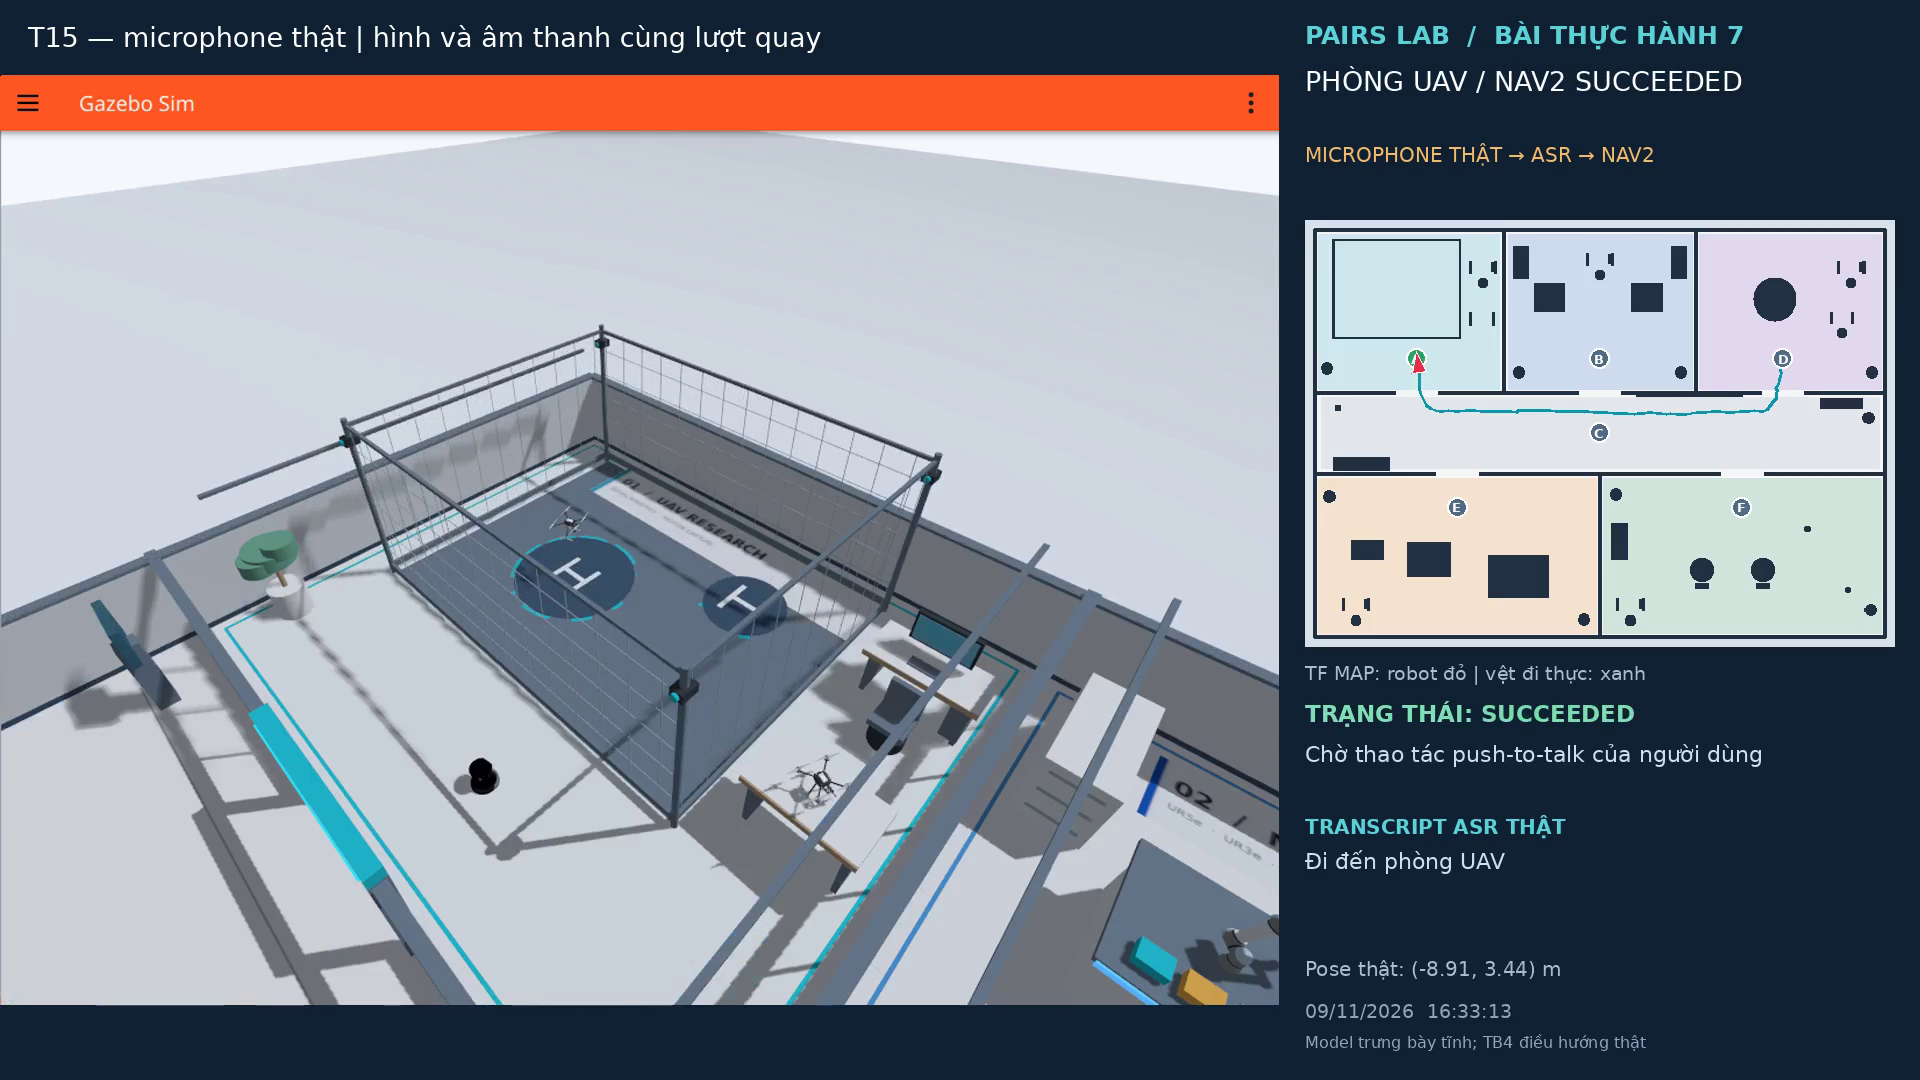
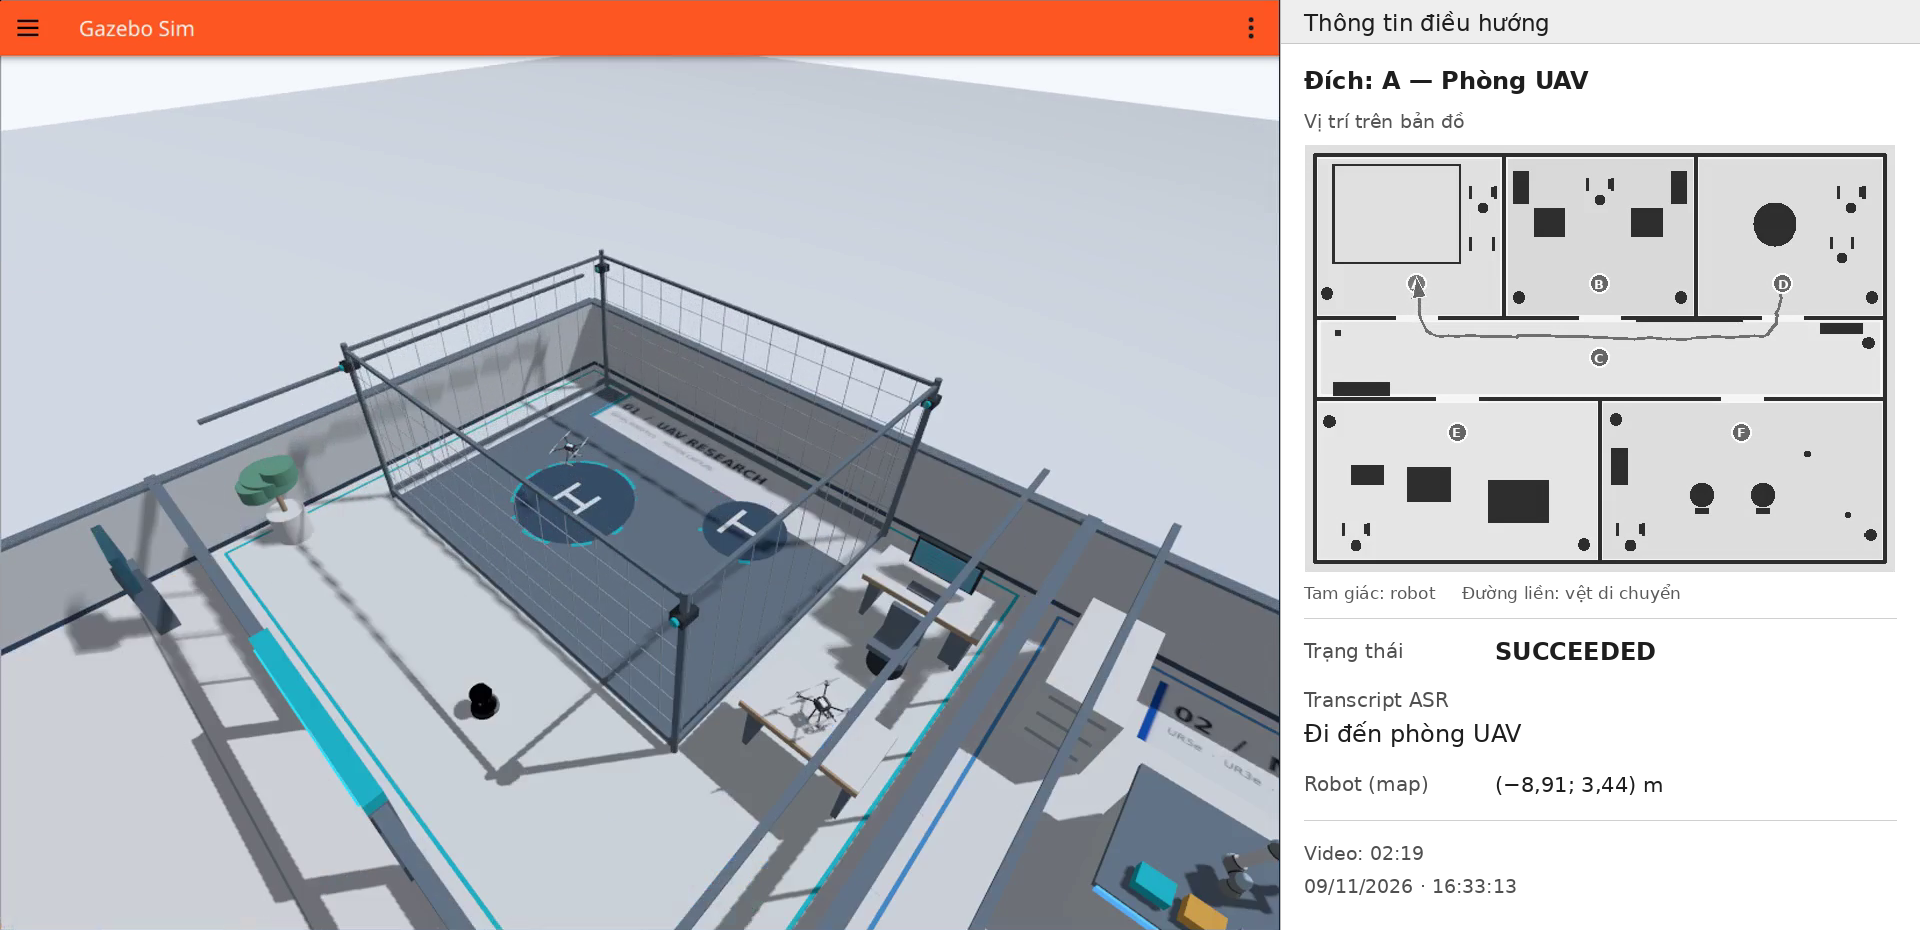
Simplify Figure 14

diff --git a/scripts/style_figure14.py b/scripts/style_figure14.py
@@ -1,0 +1,107 @@
+#!/usr/bin/env python3
+"""Restyle Figure 14's secondary panel while preserving the Gazebo crop exactly."""
+
+import hashlib
+import json
+from pathlib import Path
+import subprocess
+
+import numpy as np
+from PIL import Image, ImageDraw, ImageFont
+
+ROOT = Path(__file__).resolve().parents[1]
+FONT = "/usr/share/fonts/truetype/dejavu/DejaVuSans.ttf"
+BOLD = "/usr/share/fonts/truetype/dejavu/DejaVuSans-Bold.ttf"
+
+
+def main():
+    folder = ROOT / "submission/figures"
+    original = folder / "figure14_voice_video_original.png"
+    video = ROOT / "submission/PAIRS_Lab_Demo_1080p.mp4"
+    subprocess.run(
+        [
+            "ffmpeg",
+            "-hide_banner",
+            "-loglevel",
+            "error",
+            "-y",
+            "-ss",
+            "139",
+            "-i",
+            str(video),
+            "-frames:v",
+            "1",
+            str(original),
+        ],
+        check=True,
+    )
+    source = Image.open(original).convert("RGB")
+    assert source.size == (1920, 1080)
+    # These are the actual application pixels inside the video composition.
+    bounds = (0, 75, 1280, 1005)
+    application = source.crop(bounds)
+    output = Image.new("RGB", (1920, 930), "white")
+    output.paste(application, (0, 0))
+    draw = ImageDraw.Draw(output)
+    draw.line((1280, 0, 1280, 930), fill="#bcbcbc", width=1)
+    draw.rectangle((1281, 0, 1919, 43), fill="#eeeeee")
+    draw.line((1281, 43, 1919, 43), fill="#c8c8c8", width=1)
+
+    def text(x, y, value, size=21, bold=False, shade=30):
+        draw.text(
+            (x, y),
+            value,
+            fill=(shade, shade, shade),
+            font=ImageFont.truetype(BOLD if bold else FONT, size),
+        )
+
+    text(1304, 9, "Thông tin điều hướng", 23)
+    text(1304, 66, "Đích: A — Phòng UAV", 24, bold=True)
+    text(1304, 110, "Vị trí trên bản đồ", 19, shade=85)
+    # Keep the map, goal labels, robot marker and recorded trail at the same
+    # locations as the source frame; only remove their chromatic styling.
+    map_image = source.crop((1305, 220, 1895, 647)).convert("L").convert("RGB")
+    output.paste(map_image, (1305, 145))
+    draw = ImageDraw.Draw(output)
+    text(1304, 583, "Tam giác: robot     Đường liền: vệt di chuyển", 17, shade=90)
+    draw.line((1304, 618, 1896, 618), fill="#d0d0d0", width=1)
+    text(1304, 639, "Trạng thái", 20, shade=80)
+    text(1495, 637, "SUCCEEDED", 24, bold=True)
+    text(1304, 688, "Transcript ASR", 20, shade=80)
+    text(1304, 719, "Đi đến phòng UAV", 24)
+    text(1304, 772, "Robot (map)", 20, shade=80)
+    text(1495, 772, "(−8,91; 3,44) m", 21)
+    draw.line((1304, 820, 1896, 820), fill="#d0d0d0", width=1)
+    text(1304, 842, "Video: 02:19", 19, shade=80)
+    text(1304, 875, "09/11/2026 · 16:33:13", 19, shade=80)
+
+    assert np.array_equal(np.asarray(application), np.asarray(output.crop((0, 0, 1280, 930))))
+    secondary = np.asarray(output)[:, 1280:]
+    assert np.array_equal(secondary[:, :, 0], secondary[:, :, 1])
+    assert np.array_equal(secondary[:, :, 1], secondary[:, :, 2])
+    target = folder / "figure14_voice_video_UAV_succeeded.png"
+    output.save(target)
+    proof = ROOT / "submission/evidence/figure14_video_frame.json"
+    receipt = json.loads(proof.read_text())
+    receipt.update(
+        source_kind="restyled presentation of the same 02:19 video frame; original Gazebo pixels preserved, secondary panel monochrome",
+        original_frame="figures/" + original.name,
+        original_frame_sha256=hashlib.sha256(original.read_bytes()).hexdigest(),
+        frame_sha256=hashlib.sha256(target.read_bytes()).hexdigest(),
+        restyled=True,
+        output_dimensions=[1920, 930],
+        native_application_crop={
+            "source_bounds": list(bounds),
+            "output_bounds": [0, 0, 1280, 930],
+            "pixel_identical": True,
+        },
+        secondary_panel="white background, black/gray text, grayscale of the original map crop",
+        displayed_pose_source="(-8.91, 3.44) m displayed in the original video frame; not substituted from a later trial",
+    )
+    proof.write_text(json.dumps(receipt, indent=2, ensure_ascii=False) + "\n")
+    print("PASS: exact Gazebo pixels retained; all secondary pixels grayscale")
+    print(target)
+
+
+if __name__ == "__main__":
+    main()

diff --git a/docs/bao_cao_bai7.tex b/docs/bao_cao_bai7.tex
@@ -608,9 +608,10 @@ Mốc & Nội dung \\
 \end{table}
 
 % Hinh 14: submission/figures/figure14_voice_video_UAV_succeeded.png
-  \placeholderfigure{5cm}{Khung hình tại 02:19 của video demo ngày
-  09/11/2026: robot đến phòng UAV, transcript ASR, trạng thái Nav2
-  SUCCEEDED và pose trong bảng thông tin ROS. Đoạn voice bắt đầu tại 01:07.}{fig:videovoice}
+  \placeholderfigure{5cm}{Minh họa từ khung video tại 02:19 ngày
+  09/11/2026: robot đến phòng UAV, transcript ASR, trạng thái SUCCEEDED
+  và vị trí robot. Cửa sổ Gazebo giữ nguyên màu gốc; bảng thông tin phụ
+  được trình bày lại bằng trắng--đen.}{fig:videovoice}
 \placeholderfigure{5cm}{Các ảnh đến B/D/F/E và ảnh kết thúc ở sảnh;
 chụp sau SUCCEEDED. Không dùng model trưng bày thay robot điều hướng.}{fig:arrivals}
 

diff --git a/submission/README.md b/submission/README.md
@@ -46,4 +46,4 @@ Hình7 mới là ảnh chụp trực tiếp cửa sổ terminal khi người dù
 
 Hình13 chụp RViz đang chạy sau nhiệm vụ thật trong Hình7. Đường xanh là /voice/planned_path (đường lập kế hoạch được giữ lại), không phải quỹ đạo đã đo. Robot TF hiện tại nằm trong A. Nhãn SUCCEEDED và command_id được node marker cập nhật từ /voice/navigation_status; không chèn chữ lên ảnh sau khi chụp. Cấu hình tái mở: src/tb4_voice_navigation/rviz/pairs_lab_report.rviz.
 
-Hình14 trích nguyên khung tại02:19 của video demo09/11/2026, trong phần voice bắt đầu01:07. Ảnh có cửa sổ Gazebo và bảng telemetry ROS vốn có trong bản video, không phải ảnh terminal. Khung cho thấy transcript UAV, SUCCEEDED và robot ởA.
+Hình14 lấy khung02:19 của video demo09/11/2026, trong phần voice bắt đầu01:07. Bản dành cho báo cáo giữ nguyên pixel và tông màu của cửa sổ Gazebo, bố trí lại bảng phụ sang trắng–đen và chuyển bản đồ phụ sang grayscale; transcript/pose/trạng thái giữ đúng khung gốc. [Khung gốc để đối chiếu](figures/figure14_voice_video_original.png). Không phải ảnh terminal. Có thể tạo lại bằng `python scripts/style_figure14.py`.
